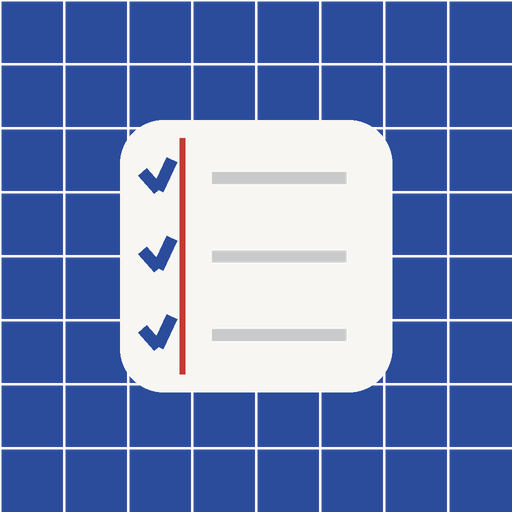
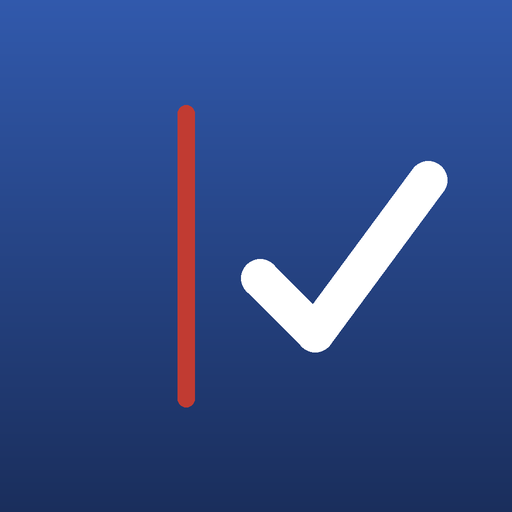
Ameliorer les animations d'accordeon et optimiser les icones
Le picker de repas et le bloc "Au menu" partagent desormais un accordeon
generique (.acc) qui anime vers la vraie hauteur du contenu, avec pastille
sur le compteur de personnes et fermeture propre de l'autre ligne ouverte.

diff --git a/js/sheets.js b/js/sheets.js
@@ -17,19 +17,21 @@ export const SHEETS = {
         <div class="card-head"><span class="eyebrow">Au menu</span></div>
         ${arr.map((planned, i) => {
           const meal = mealById(planned.mealId);
+          // Un repas tout juste ajoute demarre plie (voir render.js), tous les autres restent ouverts.
           const justAdded = ui.justAdded && ui.justAdded.slot === s.slot && ui.justAdded.index === i;
-          return `<div class="menu-item${justAdded ? " enter" : ""}" style="padding:13px 14px${i ? ";border-top:1px solid var(--line)" : ""}">
+          const bump = ui.menuBump && ui.menuBump.slot === s.slot && ui.menuBump.index === i;
+          return `<div class="acc menu${justAdded ? "" : " open"}"><div class="acc-body" style="padding:13px 14px${i ? ";border-top:1px solid var(--line)" : ""}">
             <div style="font-size:19px;font-weight:700;letter-spacing:-.02em">${esc(meal.name)}</div>
             <div class="sub" style="margin-top:4px">${esc((meal.ingredients || []).join(" · ")) || "Aucun ingrédient"}</div>
             <div class="step" style="margin-top:14px">
-              <b>${planned.people ? "Pour " + planned.people + " personne" + (planned.people > 1 ? "s" : "") : "Nombre de personnes"}</b>
+              <b class="count-value${bump ? " bump" : ""}">${planned.people ? "Pour " + planned.people + " personne" + (planned.people > 1 ? "s" : "") : "Nombre de personnes"}</b>
               <button class="pm" data-act="people" data-slot="${s.slot}" data-i="${i}" data-d="-1" aria-label="Moins">−</button>
               <button class="pm" data-act="people" data-slot="${s.slot}" data-i="${i}" data-d="1" aria-label="Plus">+</button>
             </div>
             <div class="btn-row" style="margin-top:14px">
               <button class="btn danger" data-act="remove-from-slot" data-slot="${s.slot}" data-i="${i}">Retirer</button>
             </div>
-          </div>`;
+          </div></div>`;
         }).join("")}
       </section>`;
     }
@@ -180,25 +182,25 @@ function pickRow(slot, m) {
     return `<button class="row" data-act="pick-expand" data-slot="${slot}" data-id="${m.id}">
       <span class="body"><span class="title">${m.fav ? "★ " : ""}${esc(m.name)}</span>
       <span class="meta">${esc((m.ingredients || []).slice(0, 4).join(", "))}</span></span>
-      <span class="chev">＋</span></button>`;
+      <span class="chev">⌄</span></button>`;
   }
 
   const people = ui.pick.people;
   return `<div class="row-expanded">
       <button class="row" data-act="pick-expand" data-slot="${slot}" data-id="${m.id}">
         <span class="body"><span class="title">${m.fav ? "★ " : ""}${esc(m.name)}</span></span>
-        <span class="chev">︿</span>
+        <span class="chev rot">⌄</span>
       </button>
-      <div class="reveal${ui.pick.opened ? " open" : ""}">
+      <div class="acc pick${ui.pick.opened ? " open" : ""}"><div class="acc-body">
         <div class="step" style="padding:8px 14px 0">
-          <b>${people ? "Pour " + people + " personne" + (people > 1 ? "s" : "") : "Nombre de personnes"}</b>
+          <b class="count-value${ui.pick.bump ? " bump" : ""}">${people ? "Pour " + people + " personne" + (people > 1 ? "s" : "") : "Nombre de personnes"}</b>
           <button class="pm" data-act="pick-people" data-d="-1" aria-label="Moins">−</button>
           <button class="pm" data-act="pick-people" data-d="1" aria-label="Plus">+</button>
         </div>
         <div style="padding:12px 14px 14px">
           <button class="btn" data-act="pick-confirm" data-slot="${slot}" data-id="${m.id}">Ajouter</button>
         </div>
-      </div>
+      </div></div>
     </div>`;
 }
 

diff --git a/js/actions.js b/js/actions.js
@@ -54,22 +54,26 @@ async function onClick(e) {
       break;
 
     case "pick-expand": {
+      // Si une autre ligne est depliee, elle se replie proprement avant que
+      // celle-ci s'ouvre (au lieu de disparaitre d'un coup pendant que l'autre s'anime).
       const already = ui.pick && ui.pick.slot === d.slot && ui.pick.mealId === d.id;
-      if (already) { closeRevealThen(el, () => { ui.pick = null; renderSheet(); }); break; }
-      ui.pick = { slot: d.slot, mealId: d.id, people: 0, opened: false };
-      renderSheet();
+      closeOpenPickThen(() => {
+        ui.pick = already ? null : { slot: d.slot, mealId: d.id, people: 0, opened: false, bump: false };
+        renderSheet();
+      });
       break;
     }
 
     case "pick-people":
       if (ui.pick) {
         ui.pick.people = Math.max(0, Math.min(20, ui.pick.people + Number(d.d)));
+        ui.pick.bump = true;
         renderSheet();
       }
       break;
 
     case "pick-confirm":
-      closeRevealThen(el, () => {
+      closeOpenPickThen(() => {
         store.addToSlot(d.slot, d.id, ui.pick ? ui.pick.people : 0);
         ui.justAdded = { slot: d.slot, index: (state.week.slots[d.slot] || []).length - 1 };
         ui.pick = null;
@@ -80,14 +84,16 @@ async function onClick(e) {
       });
       break;
 
-    case "remove-from-slot":
-      store.removeFromSlot(d.slot, Number(d.i));
-      renderSheet();
-      render();
+    case "remove-from-slot": {
+      const acc = el.closest(".acc.menu");
+      const finish = () => { store.removeFromSlot(d.slot, Number(d.i)); renderSheet(); render(); };
+      collapseThenRun(acc, finish);
       break;
+    }
 
     case "people":
       store.bumpPeopleAt(d.slot, Number(d.i), Number(d.d));
+      ui.menuBump = { slot: d.slot, index: Number(d.i) };
       renderSheet();
       render();
       break;
@@ -251,16 +257,28 @@ async function onClick(e) {
   }
 }
 
-// Replie la ligne de repas depliee (animation inverse de sheets.js) avant
-// d'appliquer le changement d'etat, pour ne pas la faire disparaitre d'un coup.
-function closeRevealThen(el, cb) {
-  const reveal = el.closest(".row-expanded")?.querySelector(".reveal.open");
-  if (!reveal) { cb(); return; }
-  reveal.classList.remove("open");
+// Referme un accordeon (voir styles.css .acc) puis execute cb, au lieu de
+// faire disparaitre le bloc d'un coup en changeant l'etat. `acc` peut etre
+// null (rien a fermer) : cb s'execute alors immediatement.
+function collapseThenRun(acc, cb) {
+  if (!acc || !acc.classList.contains("open")) { cb(); return; }
+  acc.classList.remove("open");
   let done = false;
   const finish = () => { if (done) return; done = true; cb(); };
-  reveal.addEventListener("transitionend", finish, { once: true });
-  setTimeout(finish, 260);
+  acc.addEventListener("transitionend", finish, { once: true });
+  setTimeout(finish, 300);
+}
+
+// Referme la ligne du picker actuellement depliee (s'il y en a une) avant
+// d'executer cb : couvre aussi bien "replier cette ligne", "valider l'ajout"
+// que "en depliant une AUTRE ligne, refermer proprement celle-ci d'abord".
+function closeOpenPickThen(cb) {
+  const acc = document.querySelector(".acc.pick.open");
+  // Le chevron pivote en meme temps que le contenu se replie, au lieu de
+  // sauter a la fin de l'animation.
+  const chev = acc && acc.closest(".row-expanded")?.querySelector(".chev.rot");
+  if (chev) chev.classList.remove("rot");
+  collapseThenRun(acc, cb);
 }
 
 /* ---------- saisie ---------- */

diff --git a/css/styles.css b/css/styles.css
@@ -16,6 +16,7 @@
   --shadow:0 1px 2px rgba(26,29,35,.06), 0 8px 24px rgba(26,29,35,.05);
   --r:14px;
   --tap:44px;
+  --ease-out:cubic-bezier(.22,.61,.36,1);
 }
 @media (prefers-color-scheme: dark){
   :root{
@@ -76,16 +77,26 @@ main{padding:14px 0 28px}
 .row .title{font-size:17px;letter-spacing:-.01em;overflow:hidden;text-overflow:ellipsis;white-space:nowrap}
 .row .title.empty{color:var(--pencil)}
 .row .meta{font-size:12px;color:var(--pencil);margin-top:1px}
-.chev{flex:0 0 auto;color:var(--pencil);opacity:.55}
+.chev{flex:0 0 auto;color:var(--pencil);opacity:.55;transition:transform .18s var(--ease-out)}
+.chev.rot{transform:rotate(180deg)}
 .row:active{background:var(--blue-soft)}
 .row-expanded{border-top:1px solid var(--line)}
 .row-expanded:first-child{border-top:0}
 .row-expanded+.row{border-top:1px solid var(--line)}
 .row-expanded .row{padding-bottom:0}
-.reveal{max-height:0;opacity:0;overflow:hidden;transition:max-height .24s ease,opacity .18s ease}
-.reveal.open{max-height:160px;opacity:1}
-.menu-item{transition:opacity .22s ease,transform .22s ease}
-.menu-item.enter{opacity:0;transform:translateY(-8px)}
+
+/* Accordeon generique : deplier/replier une ligne (picker), ajouter/retirer un
+   repas d'"Au menu". grid-template-rows anime vers la hauteur reelle du
+   contenu (contrairement a un max-height devine), donc la duree reste
+   coherente quelle que soit la taille du bloc. */
+.acc{display:grid;grid-template-rows:0fr;opacity:0;overflow:hidden;transition:grid-template-rows .26s var(--ease-out),opacity .2s var(--ease-out)}
+.acc.open{grid-template-rows:1fr;opacity:1}
+.acc>.acc-body{overflow:hidden;min-height:0}
+
+/* Petite pulsation quand un nombre de personnes change, plutot qu'un
+   remplacement silencieux du texte. */
+.count-value{display:inline-block;transition:transform .16s var(--ease-out),opacity .16s var(--ease-out)}
+.count-value.bump{transform:scale(1.2);opacity:.55}
 
 /* ---------- buttons ---------- */
 .btn{display:inline-flex;align-items:center;justify-content:center;gap:7px;min-height:var(--tap);padding:0 18px;border-radius:11px;background:var(--blue);color:#fff;font-weight:600;font-size:16px;letter-spacing:-.01em;width:100%;transition:filter .15s ease,transform .1s ease}

diff --git a/js/uistate.js b/js/uistate.js
@@ -6,7 +6,8 @@ export const ui = {
   query: "",          // recherche dans la bibliotheque
   sheet: null,        // { type, ...params } de la feuille ouverte
   draft: null,        // repas en cours d'edition { id|null, name, ingredients[] }
-  pick: null,         // ligne depliee dans le choix d'un repas { slot, mealId, people, opened }
+  pick: null,         // ligne depliee dans le choix d'un repas { slot, mealId, people, opened, bump }
   pickQuery: "",      // recherche dans le choix d'un repas (feuille de creneau)
-  justAdded: null     // { slot, index } du repas tout juste ajoute, pour l'animer a l'affichage
+  justAdded: null,    // { slot, index } du repas tout juste ajoute, pour l'animer a l'affichage
+  menuBump: null      // { slot, index } du repas d'"Au menu" dont le nombre de personnes vient de changer
 };

diff --git a/sw.js b/sw.js
@@ -3,7 +3,7 @@
 // IMPORTANT : incrementer CACHE a chaque modification de fichier statique,
 // sinon les appareils deja installes continueront de servir l'ancienne version.
 
-const CACHE = "semaine-v12";
+const CACHE = "semaine-v15";
 
 const ASSETS = [
   "./",
